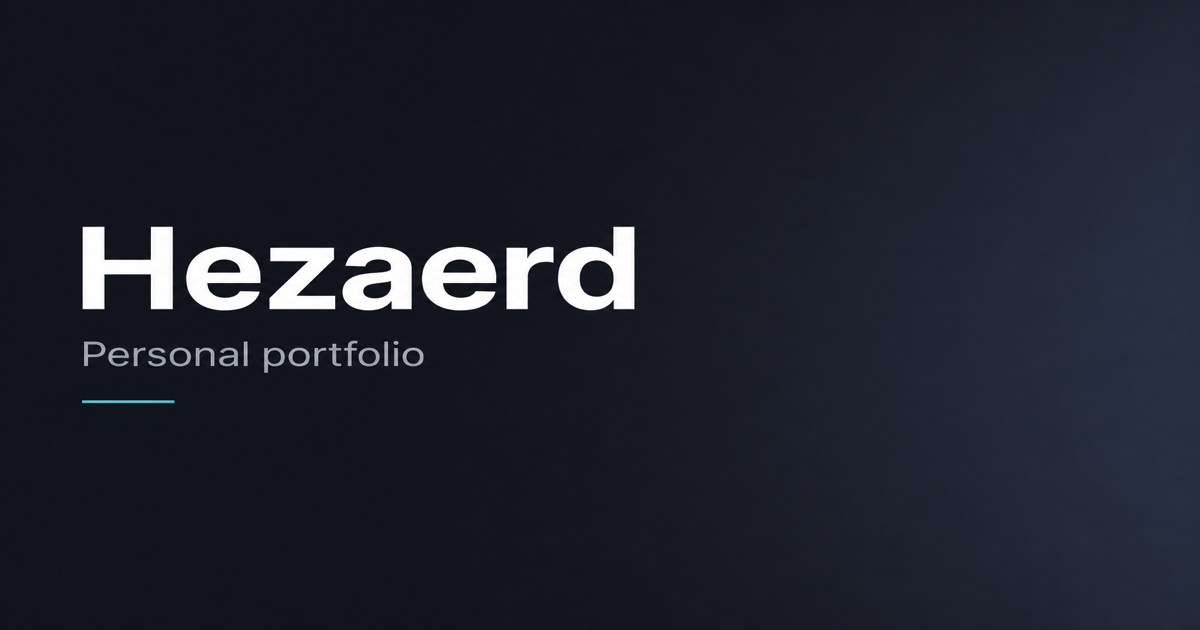
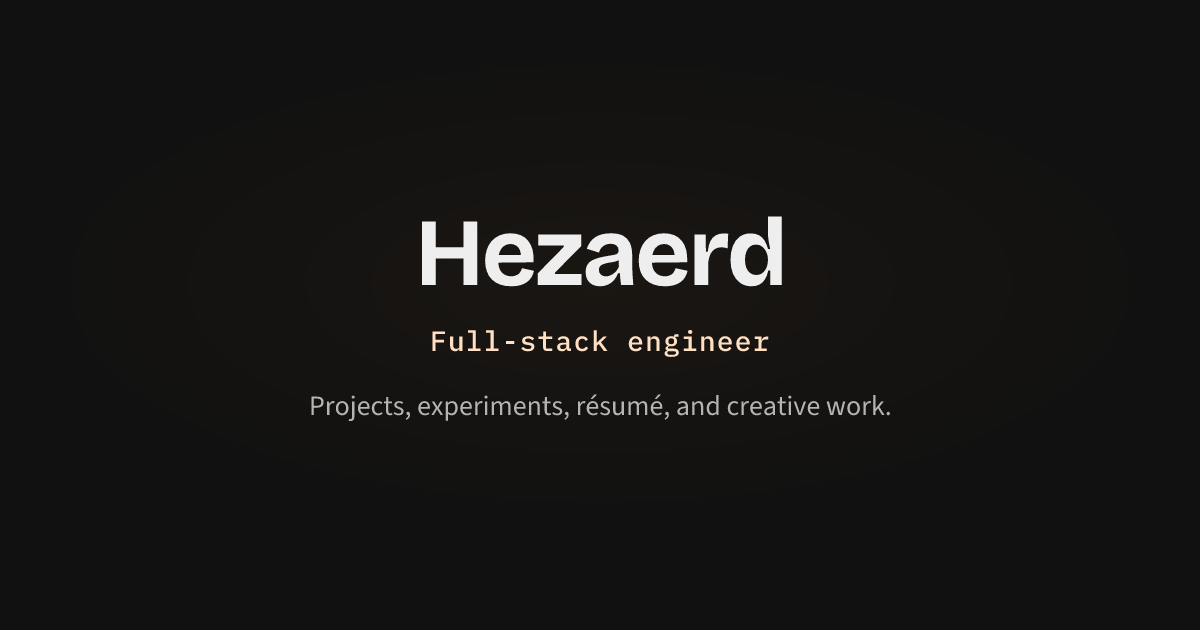
fix(portfolio): align open graph image with site brand

diff --git a/apps/portfolio/scripts/generate-og.ts b/apps/portfolio/scripts/generate-og.ts
@@ -1,0 +1,175 @@
+/**
+ * Regenerates public/og-image.png to match the portfolio hero treatment.
+ *
+ * Usage: bun scripts/generate-og.ts
+ *
+ * Fonts are downloaded once into scripts/og-fonts/ (OFL).
+ */
+import { access, mkdir, readFile, writeFile } from "node:fs/promises";
+import { join } from "node:path";
+
+import { Resvg } from "@resvg/resvg-js";
+import satori from "satori";
+
+const WIDTH = 1200;
+const HEIGHT = 630;
+
+const COLORS = {
+  background: "#111111",
+  foreground: "#eeeeee",
+  primary: "#ffe0c2",
+  muted: "#b4b4b4",
+} as const;
+
+const FONT_DIR = join(import.meta.dir, "og-fonts");
+const OUT = join(import.meta.dir, "../public/og-image.png");
+
+const FONTS = [
+  {
+    file: "BricolageGrotesque-Bold.ttf",
+    url: "https://cdn.jsdelivr.net/fontsource/fonts/bricolage-grotesque@5.2.8/latin-700-normal.ttf",
+    name: "Bricolage Grotesque",
+    weight: 700 as const,
+  },
+  {
+    file: "IBMPlexMono-Medium.ttf",
+    url: "https://cdn.jsdelivr.net/fontsource/fonts/ibm-plex-mono@5.2.5/latin-500-normal.ttf",
+    name: "IBM Plex Mono",
+    weight: 500 as const,
+  },
+  {
+    file: "SourceSans3-Regular.ttf",
+    url: "https://cdn.jsdelivr.net/fontsource/fonts/source-sans-3@5.2.8/latin-400-normal.ttf",
+    name: "Source Sans 3",
+    weight: 400 as const,
+  },
+] as const;
+
+async function ensureFonts() {
+  await mkdir(FONT_DIR, { recursive: true });
+
+  for (const font of FONTS) {
+    const path = join(FONT_DIR, font.file);
+    try {
+      await access(path);
+    } catch {
+      const res = await fetch(font.url);
+      if (!res.ok) {
+        throw new Error(`Failed to download ${font.file}: ${res.status}`);
+      }
+      await writeFile(path, Buffer.from(await res.arrayBuffer()));
+      console.log(`Downloaded ${font.file}`);
+    }
+  }
+}
+
+async function main() {
+  await ensureFonts();
+
+  const fontData = await Promise.all(
+    FONTS.map(async (f) => ({
+      ...f,
+      data: await readFile(join(FONT_DIR, f.file)),
+    })),
+  );
+
+  const svg = await satori(
+    {
+      type: "div",
+      props: {
+        style: {
+          width: "100%",
+          height: "100%",
+          display: "flex",
+          flexDirection: "column",
+          alignItems: "center",
+          justifyContent: "center",
+          backgroundColor: COLORS.background,
+          backgroundImage:
+            "radial-gradient(ellipse 70% 55% at 50% 45%, #1a1612 0%, #111111 70%)",
+        },
+        children: [
+          {
+            type: "div",
+            props: {
+              style: {
+                display: "flex",
+                flexDirection: "column",
+                alignItems: "center",
+                justifyContent: "center",
+                gap: 20,
+                padding: "0 80px",
+              },
+              children: [
+                {
+                  type: "div",
+                  props: {
+                    style: {
+                      fontFamily: "Bricolage Grotesque",
+                      fontSize: 96,
+                      fontWeight: 700,
+                      letterSpacing: "-0.03em",
+                      color: COLORS.foreground,
+                      lineHeight: 1.05,
+                    },
+                    children: "Hezaerd",
+                  },
+                },
+                {
+                  type: "div",
+                  props: {
+                    style: {
+                      fontFamily: "IBM Plex Mono",
+                      fontSize: 28,
+                      fontWeight: 500,
+                      letterSpacing: "0.04em",
+                      color: COLORS.primary,
+                      lineHeight: 1.2,
+                    },
+                    children: "Full-stack engineer",
+                  },
+                },
+                {
+                  type: "div",
+                  props: {
+                    style: {
+                      fontFamily: "Source Sans 3",
+                      fontSize: 28,
+                      fontWeight: 400,
+                      color: COLORS.muted,
+                      lineHeight: 1.45,
+                      textAlign: "center",
+                      maxWidth: 720,
+                      marginTop: 8,
+                    },
+                    children:
+                      "Projects, experiments, résumé, and creative work.",
+                  },
+                },
+              ],
+            },
+          },
+        ],
+      },
+    },
+    {
+      width: WIDTH,
+      height: HEIGHT,
+      fonts: fontData.map((f) => ({
+        name: f.name,
+        data: f.data,
+        weight: f.weight,
+        style: "normal" as const,
+      })),
+    },
+  );
+
+  const resvg = new Resvg(svg, {
+    fitTo: { mode: "width", value: WIDTH },
+  });
+  const png = resvg.render().asPng();
+  await writeFile(OUT, png);
+  console.log(`Wrote ${OUT} (${png.byteLength} bytes)`);
+}
+
+await main();